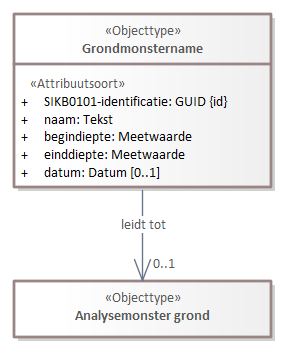
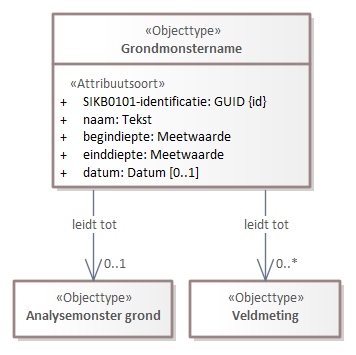
Conceptualmodel-MilieuhygienischbodemonderzoekSAD-1.08-1-20231205-20240207-132540

diff --git a/data/SAD-cat.msword.html b/data/SAD-cat.msword.html
@@ -15,7 +15,7 @@
    <body>
       <p>Conceptual model/Milieuhygienisch bodemonderzoek SAD/20231205</p>
       <p>Imvertor: Nightly-build.13</p>
-      <p>Model release: Conceptualmodel-MilieuhygienischbodemonderzoekSAD-1.08-1-20231205-20240207-131904</p>
+      <p>Model release: Conceptualmodel-MilieuhygienischbodemonderzoekSAD-1.08-1-20231205-20240207-132540</p>
       <hr>
       <section>
          <h1>Artikel 1 Definitie van registratieobject, entiteiten en attributen</h1>
@@ -3924,7 +3924,7 @@
                            <th>Definitie</th>
                            <td>
                               
-                              <p>De kleur van de bodemlaag.</p>
+                              <p>De kleur van de bodemlaag of het grondwater.</p>
                               </td>
                         </tr>
                      </tbody>
@@ -4199,8 +4199,7 @@
                            <th>Definitie</th>
                            <td>
                               
-                              <p>Asbestgegevens .... definitie nog nader vast te stellen... selectie van de meest voor
-                                 hergebruik relevante asbestgegevens.</p>
+                              <p>De gegevens over de aanwezigheid van asbest in de grond.</p>
                               </td>
                         </tr>
                      </tbody>
@@ -4299,7 +4298,7 @@
                </section>
                <section id="global_class_Model_Grondmonstername">
                   <h3>   Grondmonstername</h3>
-                  <div class="imageinfo "><img src="Images/EAID_E366477D_3827_4040_A19D_7587D3C39AA5.png" usemap="#imagemap-EAID_E366477D_3827_4040_A19D_7587D3C39AA5" alt="Diagram "><map name="imagemap-EAID_E366477D_3827_4040_A19D_7587D3C39AA5"><area shape="rect" alt="Analysemonster grond" coords="14,281,272,338" href="#global_class_Model_Analysemonstergrond"><area shape="rect" alt="Grondmonstername" coords="14,14,272,188" href="#global_class_Model_Grondmonstername"></map></div>
+                  <div class="imageinfo "><img src="Images/EAID_E366477D_3827_4040_A19D_7587D3C39AA5.png" usemap="#imagemap-EAID_E366477D_3827_4040_A19D_7587D3C39AA5" alt="Diagram "><map name="imagemap-EAID_E366477D_3827_4040_A19D_7587D3C39AA5"><area shape="rect" alt="Veldmeting" coords="190,281,341,338" href="#global_class_Model_Veldmeting"><area shape="rect" alt="Analysemonster grond" coords="14,281,173,338" href="#global_class_Model_Analysemonstergrond"><area shape="rect" alt="Grondmonstername" coords="53,14,311,188" href="#global_class_Model_Grondmonstername"></map></div>
                   <table style="width: 100%;">
                      <colgroup style="width: 30%;"></colgroup>
                      <colgroup style="width: 70%;"></colgroup>

diff --git a/data/SAD-cat.respec.html b/data/SAD-cat.respec.html
@@ -3900,7 +3900,7 @@
                   <th>Definitie</th>
                   <td>
                      
-                     <p>De kleur van de bodemlaag.</p>
+                     <p>De kleur van de bodemlaag of het grondwater.</p>
                      </td>
                </tr>
             </tbody>
@@ -4175,8 +4175,7 @@
                   <th>Definitie</th>
                   <td>
                      
-                     <p>Asbestgegevens .... definitie nog nader vast te stellen... selectie van de meest voor
-                        hergebruik relevante asbestgegevens.</p>
+                     <p>De gegevens over de aanwezigheid van asbest in de grond.</p>
                      </td>
                </tr>
             </tbody>
@@ -4275,7 +4274,7 @@
       </section>
       <section id="global_class_Model_Grondmonstername">
          <h3>   Grondmonstername</h3>
-         <div class="imageinfo "><img src="data/Images/EAID_E366477D_3827_4040_A19D_7587D3C39AA5.png" usemap="#imagemap-EAID_E366477D_3827_4040_A19D_7587D3C39AA5" alt="Diagram "><map name="imagemap-EAID_E366477D_3827_4040_A19D_7587D3C39AA5"><area shape="rect" alt="Analysemonster grond" coords="14,281,272,338" href="#global_class_Model_Analysemonstergrond"><area shape="rect" alt="Grondmonstername" coords="14,14,272,188" href="#global_class_Model_Grondmonstername"></map></div>
+         <div class="imageinfo "><img src="data/Images/EAID_E366477D_3827_4040_A19D_7587D3C39AA5.png" usemap="#imagemap-EAID_E366477D_3827_4040_A19D_7587D3C39AA5" alt="Diagram "><map name="imagemap-EAID_E366477D_3827_4040_A19D_7587D3C39AA5"><area shape="rect" alt="Veldmeting" coords="190,281,341,338" href="#global_class_Model_Veldmeting"><area shape="rect" alt="Analysemonster grond" coords="14,281,173,338" href="#global_class_Model_Analysemonstergrond"><area shape="rect" alt="Grondmonstername" coords="53,14,311,188" href="#global_class_Model_Grondmonstername"></map></div>
          <table style="width: 100%;">
             <colgroup style="width: 30%;"></colgroup>
             <colgroup style="width: 70%;"></colgroup>
